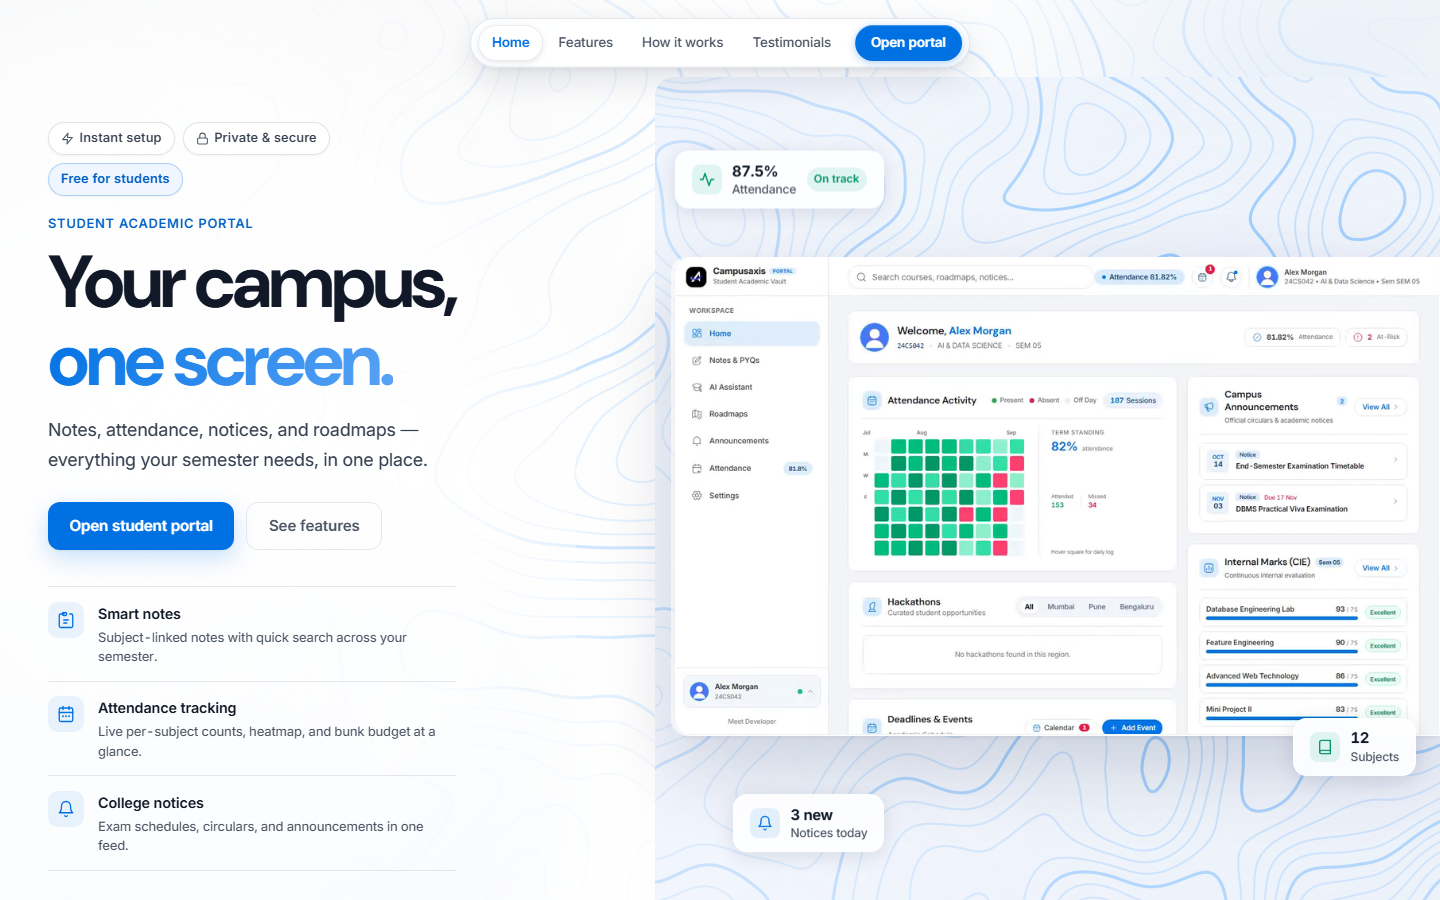
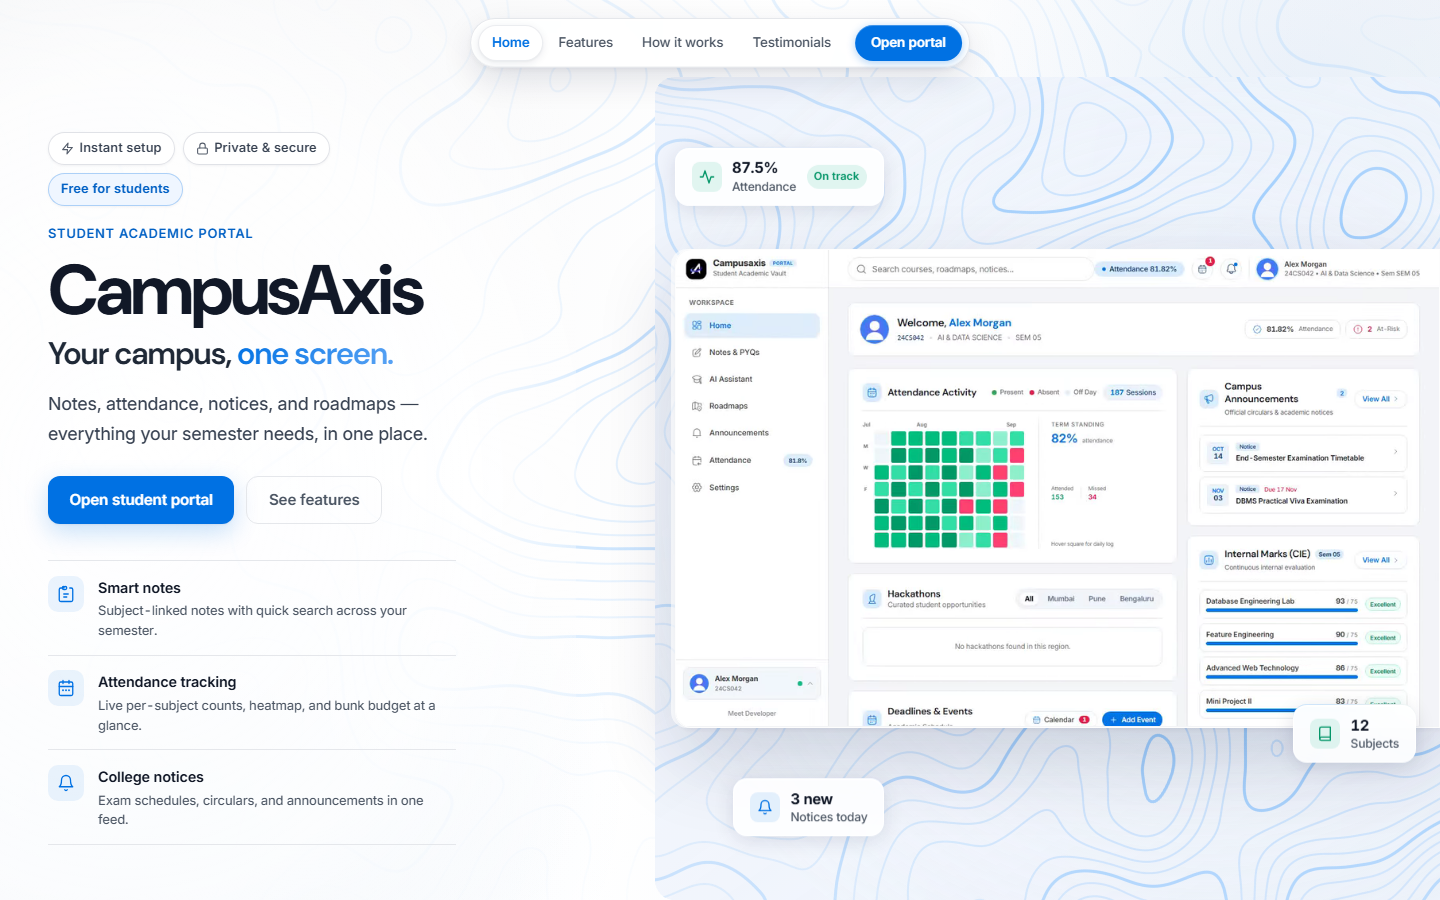
feat: add title in the landing page

diff --git a/frontend/src/components/Landing/LandingPage.jsx b/frontend/src/components/Landing/LandingPage.jsx
@@ -319,9 +319,17 @@ export default function LandingPage() {
               animate={{ opacity: 1, y: 0 }}
               transition={{ duration: 0.65, delay: 0.25, ease: [0.22, 1, 0.36, 1] }}
             >
-              Your campus,<br />
-              <span className="lp-brand-accent">one screen.</span>
+              CampusAxis
             </motion.h1>
+
+            <motion.p
+              className="lp-brand-tagline"
+              initial={{ opacity: 0, y: 16 }}
+              animate={{ opacity: 1, y: 0 }}
+              transition={{ duration: 0.6, delay: 0.32, ease: [0.22, 1, 0.36, 1] }}
+            >
+              Your campus, <span className="lp-brand-accent">one screen.</span>
+            </motion.p>
 
             <motion.p
               className="lp-lede"

diff --git a/frontend/src/components/Landing/LandingPage.css b/frontend/src/components/Landing/LandingPage.css
@@ -366,11 +366,21 @@
 .lp-brand {
   margin: 0;
   font-family: "DM Sans", Inter, -apple-system, BlinkMacSystemFont, sans-serif;
-  font-size: clamp(2.8rem, 5.5vw, 4.6rem);
+  font-size: clamp(2.8rem, 5.5vw, 4.4rem);
   font-weight: 700;
   letter-spacing: -0.045em;
   line-height: 1.05;
   color: var(--lp-ink);
+}
+
+.lp-brand-tagline {
+  margin: 0.35rem 0 0;
+  font-family: "DM Sans", Inter, -apple-system, BlinkMacSystemFont, sans-serif;
+  font-size: clamp(1.35rem, 2.5vw, 1.95rem);
+  font-weight: 600;
+  letter-spacing: -0.03em;
+  line-height: 1.25;
+  color: #1f2937;
 }
 
 /* Gradient accent word on second line */
